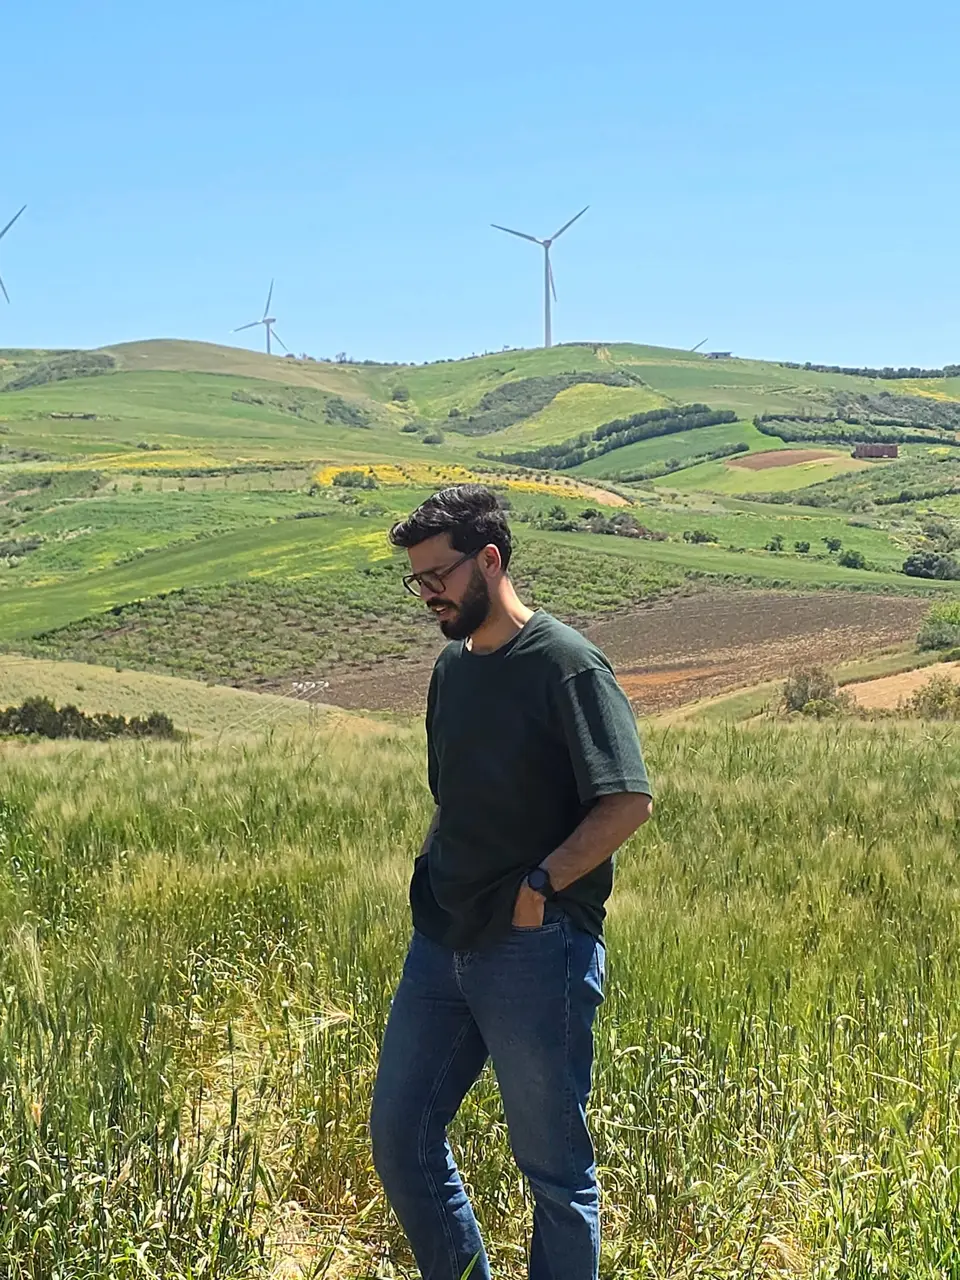
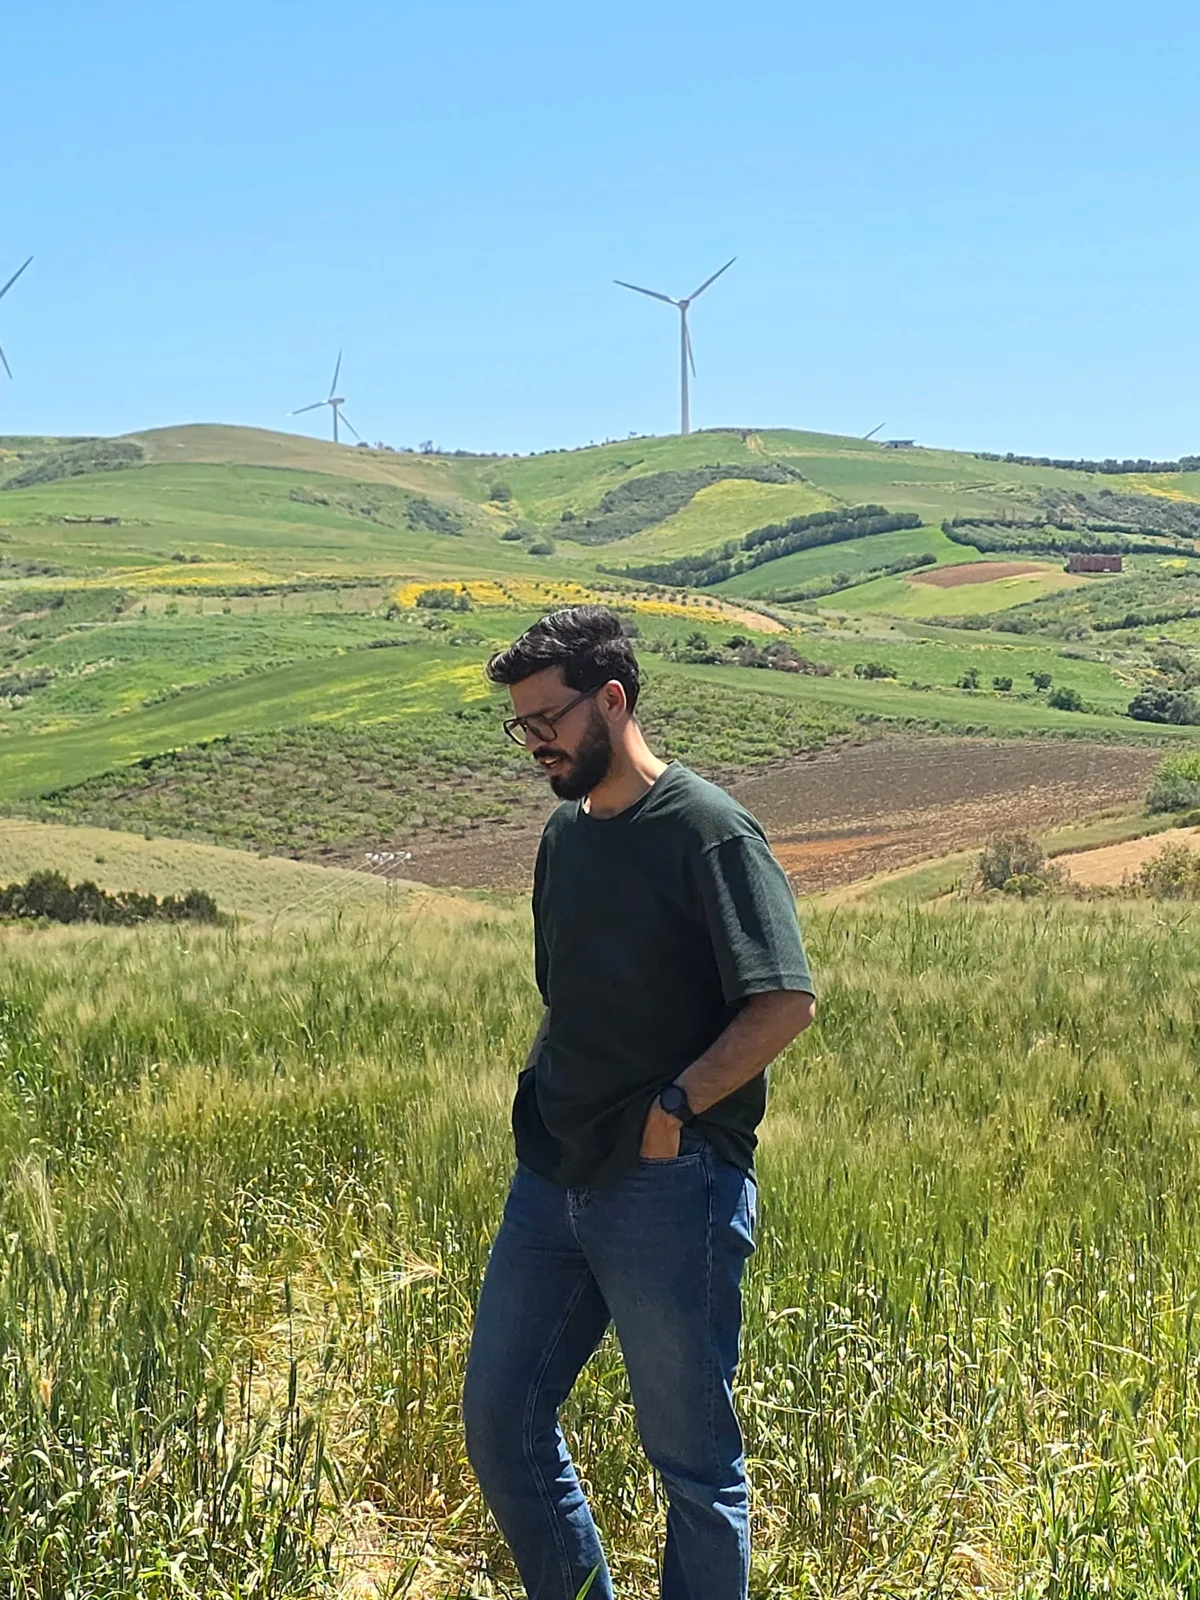
Sharpen the founder page photos
Re-export the talk, countryside and portrait photos from their original
files at full resolution (1440-1500 px) and higher quality, drop the two
neon studio shots that only exist as 640 px reel covers, and cut the
zoom on the hero, reel and stage animations so images are no longer
upscaled. The reel alternates talk and countryside photos.

diff --git a/medalydridi.html b/medalydridi.html
@@ -123,16 +123,14 @@
       </section>
 
       <section class="freel" data-gl="off" aria-labelledby="reel-h">
-        <div class="freel-head shell"><h2 class="sec-title" id="reel-h">En images</h2><p class="freel-count" aria-hidden="true"><span class="freel-n">01</span> / 07</p></div>
+        <div class="freel-head shell"><h2 class="sec-title" id="reel-h">En images</h2><p class="freel-count" aria-hidden="true"><span class="freel-n">01</span> / 05</p></div>
         <div class="freel-stage">
           <ol class="freel-track">
             <li class="freel-item"><figure><div class="freel-frame"><img src="/founder/talk-name.webp" alt="Mohamed Ali Dridi sur scène, présenté comme fondateur de KOYOTEC et créateur de contenu" loading="lazy" decoding="async" /></div><figcaption><span>01</span> Mohamed Ali Dridi sur scène, présenté comme fondateur de KOYOTEC et créateur de contenu</figcaption></figure></li>
             <li class="freel-item"><figure><div class="freel-frame"><img src="/founder/field.webp" alt="Mohamed Ali Dridi dans un champ, devant des collines et des éoliennes" loading="lazy" decoding="async" /></div><figcaption><span>02</span> Mohamed Ali Dridi dans un champ, devant des collines et des éoliennes</figcaption></figure></li>
-            <li class="freel-item"><figure><div class="freel-frame"><img src="/founder/neon-koyotec.webp" alt="Mohamed Ali Dridi dans son studio, devant le néon KOYOTEC" loading="lazy" decoding="async" /></div><figcaption><span>03</span> Mohamed Ali Dridi dans son studio, devant le néon KOYOTEC</figcaption></figure></li>
+            <li class="freel-item"><figure><div class="freel-frame"><img src="/founder/talk-network.webp" alt="Mohamed Ali Dridi expliquant un réseau de neurones pendant sa conférence" loading="lazy" decoding="async" /></div><figcaption><span>03</span> Mohamed Ali Dridi expliquant un réseau de neurones pendant sa conférence</figcaption></figure></li>
             <li class="freel-item"><figure><div class="freel-frame"><img src="/founder/field-smile.webp" alt="Mohamed Ali Dridi souriant dans la campagne verdoyante" loading="lazy" decoding="async" /></div><figcaption><span>04</span> Mohamed Ali Dridi souriant dans la campagne verdoyante</figcaption></figure></li>
-            <li class="freel-item"><figure><div class="freel-frame"><img src="/founder/talk-network.webp" alt="Mohamed Ali Dridi expliquant un réseau de neurones pendant sa conférence" loading="lazy" decoding="async" /></div><figcaption><span>05</span> Mohamed Ali Dridi expliquant un réseau de neurones pendant sa conférence</figcaption></figure></li>
-            <li class="freel-item"><figure><div class="freel-frame"><img src="/founder/talk-llm.webp" alt="Mohamed Ali Dridi expliquant le fonctionnement d'un grand modèle de langage" loading="lazy" decoding="async" /></div><figcaption><span>06</span> Mohamed Ali Dridi expliquant le fonctionnement d'un grand modèle de langage</figcaption></figure></li>
-            <li class="freel-item"><figure><div class="freel-frame"><img src="/founder/neon-studio.webp" alt="Mohamed Ali Dridi en tournage d'une vidéo sur l'architecture Linux" loading="lazy" decoding="async" /></div><figcaption><span>07</span> Mohamed Ali Dridi en tournage d'une vidéo sur l'architecture Linux</figcaption></figure></li>
+            <li class="freel-item"><figure><div class="freel-frame"><img src="/founder/talk-llm.webp" alt="Mohamed Ali Dridi expliquant le fonctionnement d'un grand modèle de langage" loading="lazy" decoding="async" /></div><figcaption><span>05</span> Mohamed Ali Dridi expliquant le fonctionnement d'un grand modèle de langage</figcaption></figure></li>
           </ol>
         </div>
       </section>

diff --git a/en/medalydridi.html b/en/medalydridi.html
@@ -123,16 +123,14 @@
       </section>
 
       <section class="freel" data-gl="off" aria-labelledby="reel-h">
-        <div class="freel-head shell"><h2 class="sec-title" id="reel-h">In pictures</h2><p class="freel-count" aria-hidden="true"><span class="freel-n">01</span> / 07</p></div>
+        <div class="freel-head shell"><h2 class="sec-title" id="reel-h">In pictures</h2><p class="freel-count" aria-hidden="true"><span class="freel-n">01</span> / 05</p></div>
         <div class="freel-stage">
           <ol class="freel-track">
             <li class="freel-item"><figure><div class="freel-frame"><img src="/founder/talk-name.webp" alt="Mohamed Ali Dridi on stage, introduced as founder of KOYOTEC and content creator" loading="lazy" decoding="async" /></div><figcaption><span>01</span> Mohamed Ali Dridi on stage, introduced as founder of KOYOTEC and content creator</figcaption></figure></li>
             <li class="freel-item"><figure><div class="freel-frame"><img src="/founder/field.webp" alt="Mohamed Ali Dridi in a field, in front of hills and wind turbines" loading="lazy" decoding="async" /></div><figcaption><span>02</span> Mohamed Ali Dridi in a field, in front of hills and wind turbines</figcaption></figure></li>
-            <li class="freel-item"><figure><div class="freel-frame"><img src="/founder/neon-koyotec.webp" alt="Mohamed Ali Dridi in his studio, in front of the KOYOTEC neon sign" loading="lazy" decoding="async" /></div><figcaption><span>03</span> Mohamed Ali Dridi in his studio, in front of the KOYOTEC neon sign</figcaption></figure></li>
+            <li class="freel-item"><figure><div class="freel-frame"><img src="/founder/talk-network.webp" alt="Mohamed Ali Dridi explaining a neural network during his talk" loading="lazy" decoding="async" /></div><figcaption><span>03</span> Mohamed Ali Dridi explaining a neural network during his talk</figcaption></figure></li>
             <li class="freel-item"><figure><div class="freel-frame"><img src="/founder/field-smile.webp" alt="Mohamed Ali Dridi smiling in the green countryside" loading="lazy" decoding="async" /></div><figcaption><span>04</span> Mohamed Ali Dridi smiling in the green countryside</figcaption></figure></li>
-            <li class="freel-item"><figure><div class="freel-frame"><img src="/founder/talk-network.webp" alt="Mohamed Ali Dridi explaining a neural network during his talk" loading="lazy" decoding="async" /></div><figcaption><span>05</span> Mohamed Ali Dridi explaining a neural network during his talk</figcaption></figure></li>
-            <li class="freel-item"><figure><div class="freel-frame"><img src="/founder/talk-llm.webp" alt="Mohamed Ali Dridi explaining how a large language model works" loading="lazy" decoding="async" /></div><figcaption><span>06</span> Mohamed Ali Dridi explaining how a large language model works</figcaption></figure></li>
-            <li class="freel-item"><figure><div class="freel-frame"><img src="/founder/neon-studio.webp" alt="Mohamed Ali Dridi filming a video on Linux architecture" loading="lazy" decoding="async" /></div><figcaption><span>07</span> Mohamed Ali Dridi filming a video on Linux architecture</figcaption></figure></li>
+            <li class="freel-item"><figure><div class="freel-frame"><img src="/founder/talk-llm.webp" alt="Mohamed Ali Dridi explaining how a large language model works" loading="lazy" decoding="async" /></div><figcaption><span>05</span> Mohamed Ali Dridi explaining how a large language model works</figcaption></figure></li>
           </ol>
         </div>
       </section>

diff --git a/scripts/sections/founder.js b/scripts/sections/founder.js
@@ -25,7 +25,7 @@ export function founderHero(scope, { ready }) {
   const split = SplitText.create(name, { type: "chars", mask: "chars" });
   gsap.set(split.chars, { yPercent: 110 });
   gsap.set(portrait, { clipPath: "inset(100% 0% 0% 0%)" });
-  gsap.set(img, { scale: 1.25 });
+  gsap.set(img, { scale: 1.08 });
   gsap.set(small, { autoAlpha: 0, y: 16 });
 
   const tl = gsap.timeline({ paused: true })
@@ -123,9 +123,9 @@ export function founderReel(scope) {
       ease: "none",
       scrollTrigger: { trigger: li, containerAnimation: tween, start: "left right", end: "center center", scrub: true },
     });
-    gsap.fromTo(img, { xPercent: -8, scale: 1.15 }, {
-      xPercent: 8,
-      scale: 1.05,
+    gsap.fromTo(img, { xPercent: -4, scale: 1.08 }, {
+      xPercent: 4,
+      scale: 1.08,
       ease: "none",
       scrollTrigger: { trigger: li, containerAnimation: tween, start: "left right", end: "right left", scrub: true },
     });
@@ -184,7 +184,7 @@ export function founderStage(scope) {
     ease: "none",
     scrollTrigger: { trigger: stage, start: "top 85%", end: "top 15%", scrub: true },
   });
-  gsap.fromTo(media.querySelector("img"), { scale: 1.3 }, { scale: 1, ease: "none", scrollTrigger: { trigger: stage, start: "top bottom", end: "bottom top", scrub: true } });
+  gsap.fromTo(media.querySelector("img"), { scale: 1.1 }, { scale: 1, ease: "none", scrollTrigger: { trigger: stage, start: "top bottom", end: "bottom top", scrub: true } });
   revealLines(stage.querySelector(".fstage-title"));
   batchReveal($(".fstage-kicker, .fstage-text, .fstage-second, .ffollow-list li", scope), { y: 40, stagger: 0.08 });
 }
